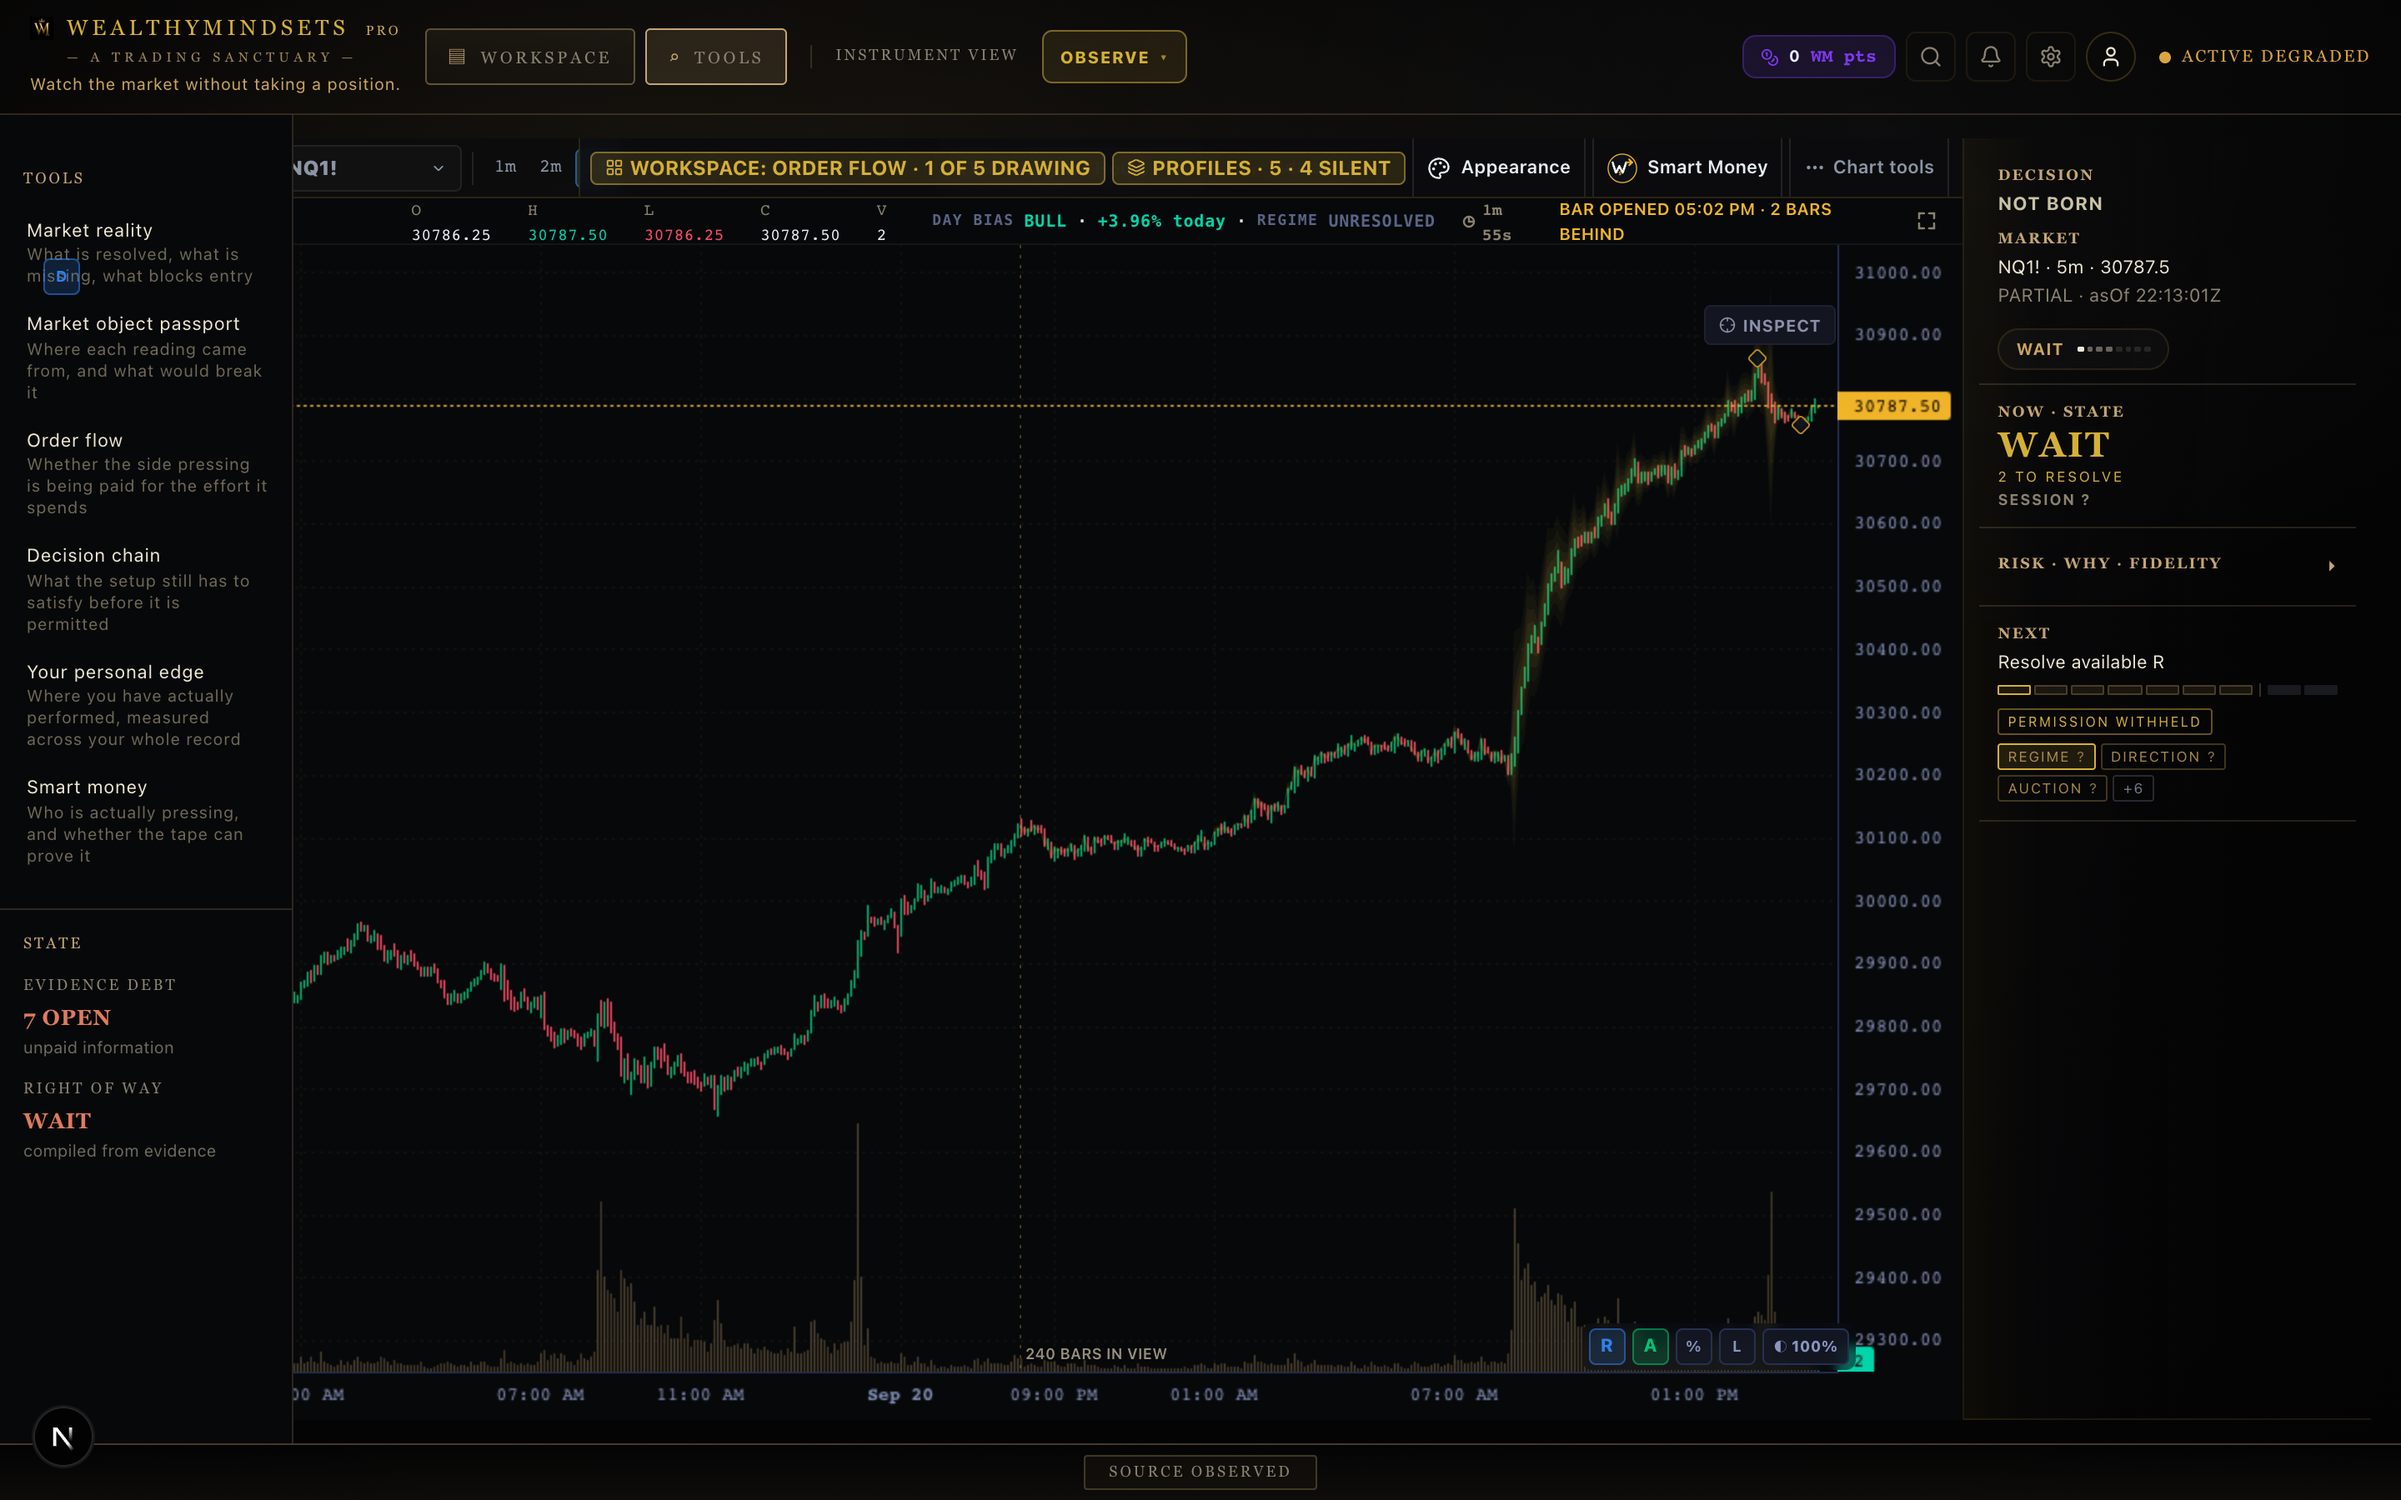
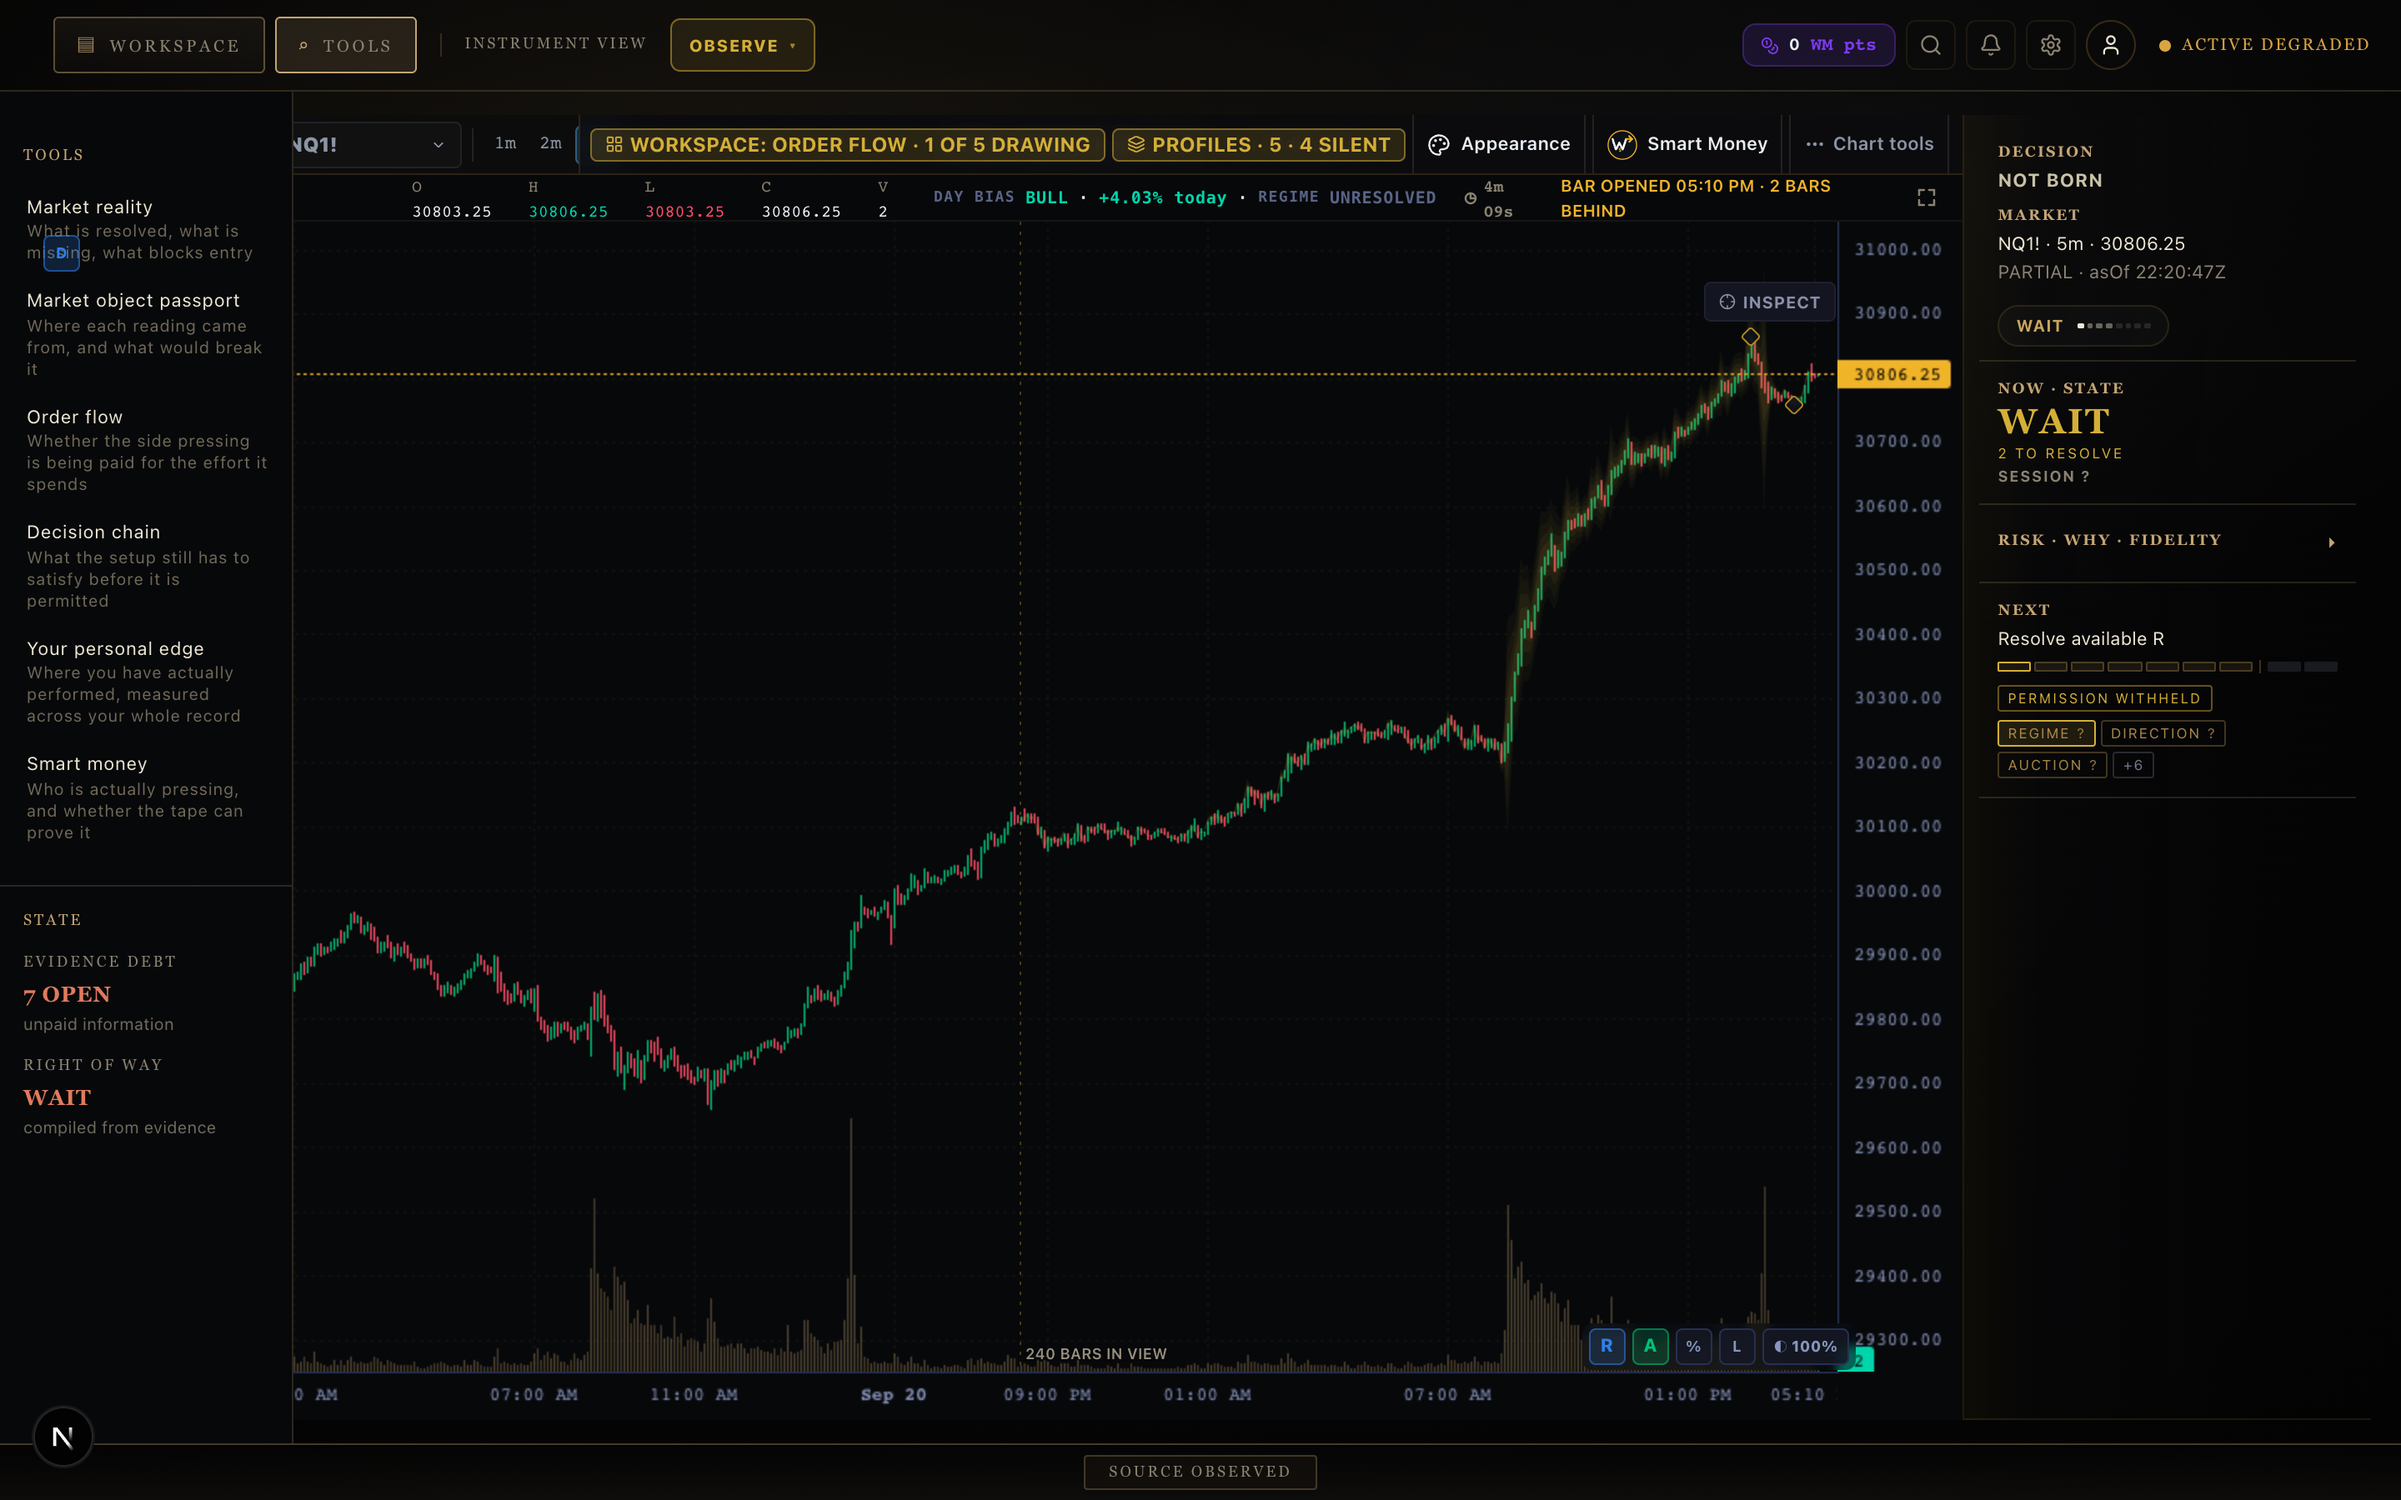
feat(shell): the instrument view's masthead names no company
F24 "Workspace Equipment Over Live Chart" draws exactly two things in the
top band: the Workspace and Tools brass plates at the leading edge, and an
asOf chip at the trailing edge. No crest, no wordmark, no engraved legend,
no job sentence.

/charts drew a three-line text stack in that same leading corner —
"WEALTHYMINDSETS PRO" / "— A TRADING SANCTUARY —" / "Watch the market
without taking a position." Three stacked lines of 10-13px type is where
the masthead's height came from.

MEASURED at 1440x900 (scratchpad/desktop-chrome-stack.mjs):

  wm-os-masthead        69px -> 55px
  chrome above candles 147px -> 133px   (16.3% -> 14.8% of the glass)
  candle field         705px -> 719px

F24 spends about 9.5%. Still above it; this is the largest single band
closed, not the last one.

ROUTE-SCOPED, NOTHING DELETED. Every other room keeps the wordmark, the
legend and the job caption — everywhere else naming the place IS part of
the job, per MainLayout's note at the brand prop. The instrument view
answers differently: over a live market the house does not advertise
itself above price.

An empty fragment rather than `undefined`, because WMOperatingSystem's
identity cell is `{brand ?? <crest + wordmark fallback/>}` and a nullish
brand would have summoned the frame's own crest — louder than what was
removed.

VISUAL VERIFICATION: canon F24 and a 1440 shot of this build read side by
side before the edit, and the top band re-shot and read after it. The band
[…]

diff --git a/src/components/experience/WMExperienceShell.tsx b/src/components/experience/WMExperienceShell.tsx
@@ -505,8 +505,49 @@ function SanctuaryRoom({
         rightOfWayResolved={standing.rightOfWayResolved}
         feed={standing.feed}
         asOfLabel={standing.asOfLabel}
-        brand={brand}
-        mastheadCaption={jobCaption}
+        /* ── THE INSTRUMENT VIEW'S MASTHEAD NAMES NO COMPANY ──────────────
+           LOOKED AT, NOT INFERRED. 2026-09-21, canon frame F24 "Workspace
+           Equipment Over Live Chart" beside a 1440 shot of this build:
+
+             F24's top band carries EXACTLY two things — the Workspace and
+             Tools brass plates at the leading edge, and an
+             "INDICATIVE · asOf 09:24:17 ET" chip at the trailing edge. There
+             is no crest, no wordmark, no engraved legend, no job sentence.
+
+             The build's top band carries a THREE-LINE text stack in that same
+             leading corner: "WEALTHYMINDSETS PRO", under it
+             "— A TRADING SANCTUARY —", under that "Watch the market without
+             taking a position."
+
+           MEASURED, same session, scratchpad/desktop-chrome-stack.mjs at
+           1440x900: chrome above the candles = 147px, 16.3% of the glass.
+           F24 spends about 9.5%. `wm-os-masthead` is 69px of that 147 — the
+           single largest band — and three stacked lines of 10-13px type with
+           a 2px gap and 10px padding is precisely where 69px comes from.
+
+           NONE OF THIS IS DELETED — IT IS ROUTE-SCOPED. Every other room
+           still gets the wordmark, the legend and the job caption, because
+           everywhere else naming the place IS part of the job. See
+           MainLayout's note at the `brand` prop: the legend is a property of
+           the OPERATING ROOM. F24 is the INSTRUMENT VIEW, a different frame
+           in the same canon, and it answers the question differently: over a
+           live market the house does not advertise itself above price.
+
+           This is the same argument this file already made 350 lines up, when
+           a 26px caption stripe was folded into the masthead for consuming
+           viewport before the trader reached a market pixel. One route
+           further, and the caption has no reader here at all — `destinations
+           === "equipment"` means the mode bar beside it is already collapsed
+           to a single chip.
+
+           AN EMPTY FRAGMENT, NOT `undefined`. WMOperatingSystem's identity
+           cell is written `{brand ?? (<crest + wordmark fallback/>)}`, so
+           passing `undefined` or `null` is nullish and would summon the
+           frame's OWN crest and wordmark — louder than what we removed. A
+           fragment is non-nullish and renders nothing, which is the state
+           F24 draws. */
+        brand={onInstrumentView ? <></> : brand}
+        mastheadCaption={onInstrumentView ? undefined : jobCaption}
         /* Seven equal tabs answer "what is the current job?" seven times. On the
            instrument view one gold chip answers it once and hands the widest
            non-price object in the masthead back to price. See the prop's doc. */
